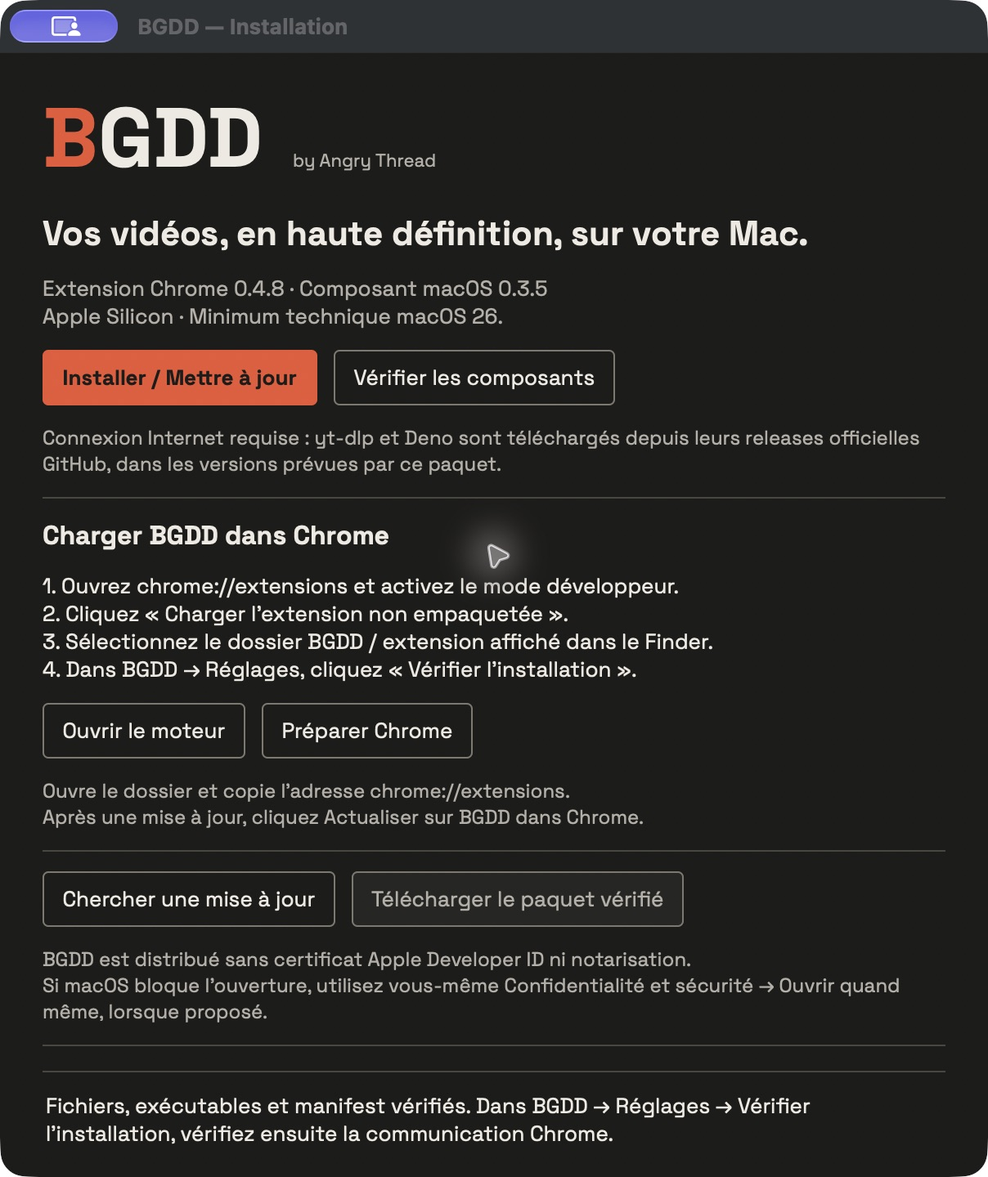
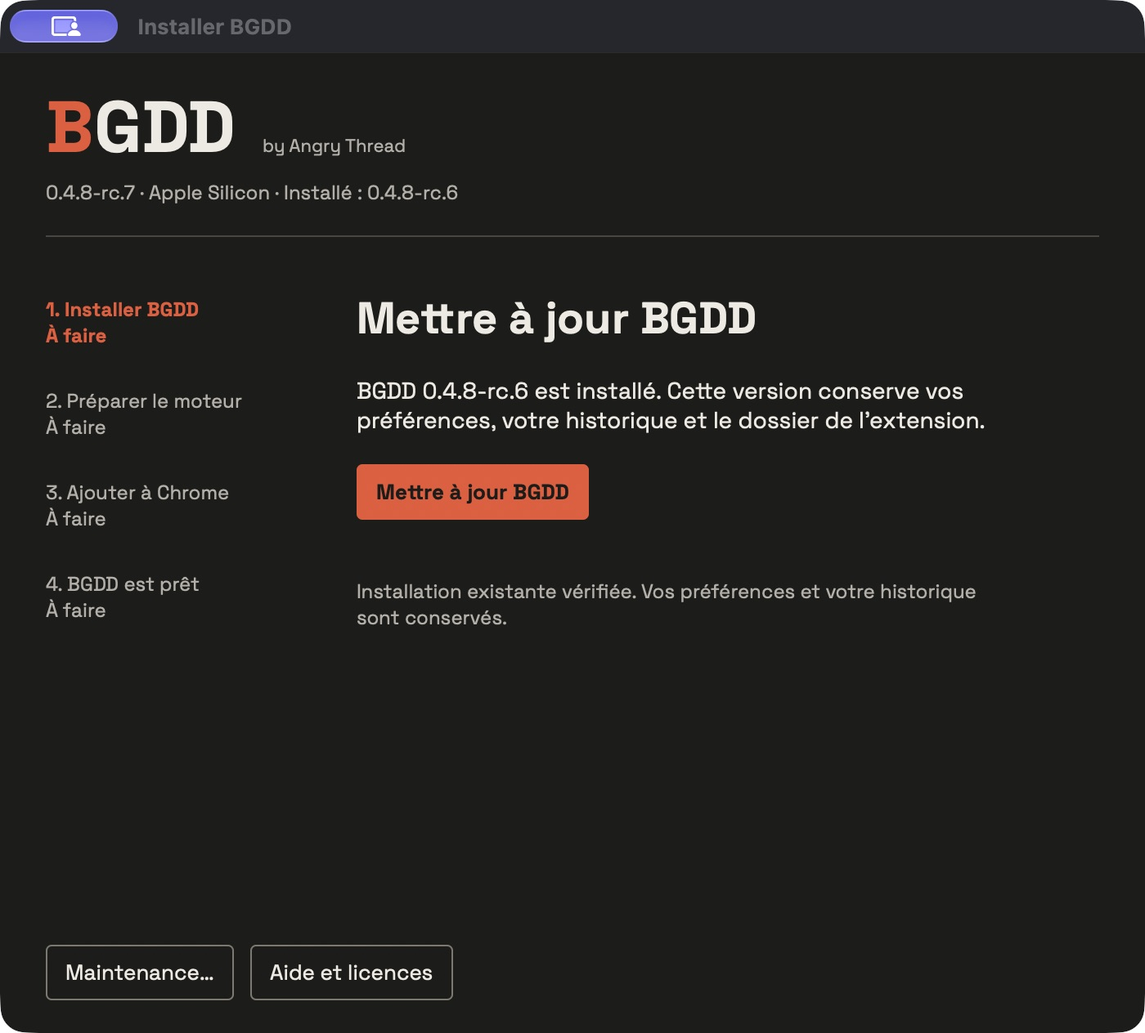
Publish common rc7 ARM and Intel installation guidance

diff --git a/docs/DISTRIBUTION-INSTALL.md b/docs/DISTRIBUTION-INSTALL.md
@@ -1,53 +1,30 @@
-# Installer et entretenir BGDD
+# Installer et entretenir BGDD 0.4.8-rc.7
 
-BGDD gratuit et propriétaire · Angry Thread · extension **0.4.8** · composant natif **0.3.5** · protocole **2**.
+Angry Thread · logiciel gratuit et propriétaire · extension 0.4.8 · protocole 2.
 
-Choisir le paquet correspondant au processeur :
+Choisissez **BGDD-macOS-arm64.dmg** pour Apple Silicon sous macOS 27 ou **BGDD-macOS-x86_64.dmg** pour Intel sous macOS 26, dans la [même release](https://github.com/enrimerveille/BGDD-downloads/releases/tag/v0.4.8-rc.7). Le minimum technique du paquet est macOS 26 ; ARM sur 26 reste non qualifié. La nouvelle interface RC.7 n’a pas été exécutée sur Intel. [Validation](DISTRIBUTION-VALIDATION.md).
 
-- **Apple Silicon : [0.4.8-rc.6](https://github.com/enrimerveille/BGDD-downloads/releases/tag/v0.4.8-rc.6), macOS 27 uniquement.** macOS 26 ARM reste non qualifié.
-- **Intel x86_64 : [0.4.8-rc.5](https://github.com/enrimerveille/BGDD-downloads/releases/tag/v0.4.8-rc.5), macOS 26**, test physique sous macOS 26.5.2. Installation, moteur, quatre formats réseau, annulation, mise à jour et désinstallation réussis. **Chrome → Native Messaging → téléchargement sur Intel NON TESTÉ** ; cette limite est acceptée pour la préversion.
+## Les quatre étapes
 
-Le paquet Intel exact conserve son numéro rc.5 ; il ne remplace pas la rc.6 ARM. Le paquet est sans Developer ID ni notarisation ; [Gatekeeper](DISTRIBUTION-GATEKEEPER.md) explique le mécanisme manuel officiel lorsqu’il est proposé. [Preuves et limites](DISTRIBUTION-VALIDATION.md).
+Ouvrez le DMG puis son unique application **Installer BGDD.app**. Si macOS bloque son ouverture, suivez personnellement le [guide Gatekeeper](DISTRIBUTION-GATEKEEPER.md). BGDD est distribué sans Developer ID ni notarisation. Aucune protection n’est désactivée.
 
-## Première installation
+1. **Installer BGDD** ou **Mettre à jour BGDD** : l’installation transactionnelle conserve préférences, historique et dossier de l’extension. Internet sert à récupérer yt-dlp 2026.08.19 et Deno 2.9.7 depuis leurs releases officielles, avec empreintes fixes.
+2. **Préparer le moteur** : choisir **Ouvrir BGDD Engine**. La fenêtre vérifie yt-dlp, Deno, FFmpeg et ffprobe sans télécharger de média. Une éventuelle décision macOS reste personnelle. Revenir à l’assistant et choisir **Vérifier le résultat**.
+3. **Ajouter à Chrome** : choisir **Ouvrir les extensions Chrome**. Première installation : activer le mode développeur, choisir **Charger l’extension non empaquetée** et sélectionner le dossier montré. Mise à jour : choisir **BGDD est déjà dans Chrome** si nécessaire, puis **Actualiser** sur la carte BGDD existante. Ne pas supprimer cette carte. Dans BGDD → Réglages, choisir **Vérifier l’installation**, fermer le popup, revenir à l’assistant et choisir **Vérifier la connexion**.
+4. **BGDD est prêt** : les étapes affichent **Terminé** seulement après les contrôles d’installation, du moteur et de la connexion Chrome. Choisir **Terminer**.
 
-1. Télécharger **BGDD-macOS-arm64.dmg** pour Apple Silicon ou **BGDD-macOS-x86_64.dmg** pour Intel d’une release approuvée sur [BGDD-downloads](https://github.com/enrimerveille/BGDD-downloads/releases).
-2. Ouvrir l’image puis **BGDD Installer.app**. Si macOS bloque cette première ouverture, suivre le guide Gatekeeper et confirmer vous-même l’ouverture.
-3. Choisir **Installer / Mettre à jour**. Une connexion Internet est nécessaire pour récupérer yt-dlp **2026.08.19** et Deno **2.9.7** directement depuis leurs releases officielles. Leur version et leur SHA-256 sont fixes. L’installateur affiche la source et les octets réellement reçus ; aucun script distant n’est exécuté.
-4. Choisir **Ouvrir le moteur**. La fenêtre **BGDD — préparer le moteur** vérifie successivement les versions de yt-dlp, Deno, FFmpeg et ffprobe, sans télécharger de média. La séquence s’arrête au premier échec. Si macOS bloque un composant, prendre vous-même la décision d’ouverture officielle décrite dans le guide Gatekeeper, puis rouvrir le moteur pour refaire la vérification.
-5. Choisir **Vérifier les composants** et attendre un résultat complet. Ce contrôle d’intégrité est distinct de l’autorisation de lancement par macOS.
-6. Choisir **Préparer Chrome**. Finder montre le dossier ; l’adresse **chrome://extensions** est copiée.
-7. Dans Chrome, coller cette adresse, activer **Mode développeur**, choisir **Charger l’extension non empaquetée**, puis sélectionner le dossier **extension** montré par l’installateur.
-8. Ouvrir BGDD, puis **Réglages → Vérifier l’installation**. Le diagnostic doit indiquer moteur **0.3.5**, protocole **2** et composants prêts. Un auxiliaire peut aussi demander une décision Gatekeeper personnelle à cette étape.
+L’ID reste **ipjganpibkpndaibhejdcnbdclekogbl** et le dossier **~/Library/Application Support/BGDD/extension**. Aucun Terminal, Homebrew, Python ou Node.js séparé. Le chargement local de Chrome reste manuel et ne fournit pas de mise à jour Chrome Web Store. L’installateur n’édite pas les fichiers internes du profil Chrome.
 
-Aucun Terminal, Homebrew, Python ou Node.js séparé. L’installation utilise le dossier utilisateur stable **~/Library/Application Support/BGDD/extension** et le manifest Native Messaging officiel de Chrome. Vous n’avez pas à saisir ces chemins. L’installateur refuse une ancienne installation dont il ne peut pas établir la propriété.
+## Télécharger et mettre à jour
 
-L’ID attendu est **ipjganpibkpndaibhejdcnbdclekogbl**. Le chargement local est une méthode normalement destinée au développement : il reste manuel, sans installation silencieuse, sans modification des fichiers internes de Chrome ni mises à jour automatiques Chrome Web Store.
+Ouvrez une publication compatible, choisissez format et destination, puis **Télécharger**. Un transfert actif à la fois ; la réussite attend ffprobe et la publication sans écrasement. **Annuler** arrête tout le groupe de processus. Aucun média ne transite par Chrome. L’accès facultatif à une session exige un consentement explicite.
 
-## Télécharger
+Dans **Maintenance…**, la recherche de mise à jour est volontaire. L’updater choisit le DMG de l’architecture du Mac dans la release commune et contrôle HTTPS, version, taille, SHA-256 et contenu. Il n’existe ni daemon, ni recherche périodique, ni installation silencieuse. Les empreintes proviennent du même compte GitHub que les fichiers ; elles ne remplacent pas une identité Apple.
 
-Ouvrir une publication accessible, choisir son format et sa destination, puis **Télécharger**. Le moteur reçoit les médias directement sur le Mac ; les données vidéo ne transitent pas par Chrome. L’accès facultatif à une session de site exige un consentement explicite dans les réglages.
+Une mise à jour conserve la carte Chrome, ses autorisations, réglages et historique. Actualisez cette carte et rechargez ensuite les publications déjà ouvertes. Les téléchargements restent en place.
 
-**Annuler** arrête le groupe de processus de la tâche. Fermer le popup laisse le transfert continuer ; fermer Chrome l’interrompt sans reprise automatique. La réussite attend ffprobe et la publication sans écrasement. Les garanties et limites APFS/exFAT restent celles du produit 0.4.8.
+## Retirer ou réparer
 
-## Mettre à jour
+**Maintenance…** regroupe vérification, réparation et désinstallation. Une erreur de transaction conserve ou restaure l’installation précédente. Ne supprimez pas de dossier personnel pour réparer BGDD.
 
-1. Attendre la fin des transferts et ouvrir l’installateur.
-2. Choisir **Chercher une mise à jour**. La recherche volontaire utilise **BGDD-downloads**, vérifie version, HTTPS, taille, empreintes et contenu attendu. L’absence de Developer ID limite l’authenticité : l’empreinte est fournie par le même compte GitHub que le fichier.
-3. Choisir d’ouvrir le paquet vérifié, confirmer son ouverture si macOS le demande, puis choisir **Installer / Mettre à jour** dans le nouvel installateur.
-4. Choisir **Ouvrir le moteur**, terminer la vérification des quatre outils et décider personnellement des éventuelles ouvertures demandées par macOS, puis vérifier les composants.
-5. Dans Chrome, choisir **Actualiser** sur la carte BGDD existante, puis recharger les publications déjà ouvertes.
-
-Le chemin, l’identité, les préférences, autorisations, historique et médias sont conservés. La réparation peut exiger Internet pour les versions fixes des moteurs. Aucun script distant, installation silencieuse, recherche périodique ni connexion permanente à GitHub. Le canal public sélectionne les préversions compatibles avec l’architecture depuis la liste des releases, avec vérification des empreintes.
-
-## Désinstaller
-
-1. Supprimer BGDD dans **chrome://extensions**.
-2. Ouvrir l’installateur conservé, laisser décoché **Supprimer aussi préférences et historique** pour garder les données natives, puis choisir **Désinstaller**.
-3. Cocher cette option uniquement si vous souhaitez effacer les données natives BGDD.
-
-Host, gardien, sélecteur, extension, manifest et moteurs propres à BGDD sont retirés. Les médias téléchargés et outils d’autres applications restent en place. Chrome retire ses propres données lorsque son extension est supprimée ; l’option de l’installateur concerne les données natives.
-
-## Si une opération échoue
-
-L’installateur conserve ou restaure la version précédente lorsque sa transaction échoue. Rouvrir l’installateur et vérifier les composants. Si la préparation du moteur s’arrête, conserver le nom de l’outil et le message affiché, puis suivre [Gatekeeper](DISTRIBUTION-GATEKEEPER.md) lorsqu’une autorisation officielle est proposée. Ne supprimer aucun dossier personnel pour réparer BGDD. Dossier inaccessible, volume absent et disque plein ont des messages distincts. Ne pas modifier PATH, les réglages du shell ou les politiques de sécurité.
+Pour désinstaller, retirez BGDD dans Chrome puis utilisez **Maintenance… → Désinstaller**. L’effacement des préférences natives est un choix explicite ; Chrome supprime ses propres données quand sa carte est retirée. Les médias téléchargés sont toujours conservés.

diff --git a/README.md b/README.md
@@ -4,9 +4,14 @@
 
 BGDD est un logiciel **gratuit et propriétaire** qui associe une extension Chrome à un moteur local macOS. Choisissez une publication, un format et un dossier : le téléchargement et le traitement se font sur votre Mac. Aucun compte BGDD, abonnement, serveur de téléchargement ou télémétrie.
 
-**Préversion 0.4.8-rc.6 — Apple Silicon, macOS 27 uniquement.** [Télécharger le DMG ARM](https://github.com/enrimerveille/BGDD-downloads/releases/download/v0.4.8-rc.6/BGDD-macOS-arm64.dmg) · [Release, empreintes et kit tiers](https://github.com/enrimerveille/BGDD-downloads/releases/tag/v0.4.8-rc.6). macOS 26 ARM reste non qualifié pour cette version. [Preuves et limites](docs/DISTRIBUTION-VALIDATION.md).
+**Préversion commune 0.4.8-rc.7 — Apple Silicon et Intel.** [Release, empreintes et sources tierces](https://github.com/enrimerveille/BGDD-downloads/releases/tag/v0.4.8-rc.7).
 
-**Préversion 0.4.8-rc.5 — Intel x86_64, macOS 26.** [Télécharger le DMG Intel](https://github.com/enrimerveille/BGDD-downloads/releases/download/v0.4.8-rc.5/BGDD-macOS-x86_64.dmg) · [Release, empreintes et kit tiers](https://github.com/enrimerveille/BGDD-downloads/releases/tag/v0.4.8-rc.5). Test physique sous macOS 26.5.2 : installation, moteur et quatre formats réseau réussis. **Parcours Chrome → Native Messaging → téléchargement Intel NON TESTÉ**, limite acceptée pour cette préversion. Les deux variantes ont des numéros distincts ; choisissez selon votre processeur.
+| Votre Mac | Paquet | Validation |
+|---|---|---|
+| Apple Silicon, macOS 27 | [DMG ARM64](https://github.com/enrimerveille/BGDD-downloads/releases/download/v0.4.8-rc.7/BGDD-macOS-arm64.dmg) | Recette ARM ; macOS 26 ARM non qualifié |
+| Intel x86_64, macOS 26 | [DMG Intel](https://github.com/enrimerveille/BGDD-downloads/releases/download/v0.4.8-rc.7/BGDD-macOS-x86_64.dmg) | Contrôles statiques RC.7 ; essais physiques antérieurs sous 26.5.2 réutilisés |
+
+**La nouvelle interface RC.7 n’a pas été exécutée sur Intel.** Le fonctionnement Chrome antérieur est confirmé par le propriétaire ; aucune nouvelle session Intel n’est revendiquée. [Preuves et limites](docs/DISTRIBUTION-VALIDATION.md).
 
 <p align="center"><img src="assets/popup-light.png" width="320" alt="BGDD clair"><img src="assets/popup-dark.png" width="320" alt="BGDD sombre"></p>
 
@@ -31,12 +36,11 @@ Captures de la vraie fenêtre AppKit ; interface identique sur ARM et Intel, don
 
 ## Installer
 
-1. Télécharger le DMG d’une release approuvée et ouvrir **BGDD Installer.app**.
-2. Si macOS bloque l’ouverture, suivre **Réglages Système → Confidentialité et sécurité → Ouvrir quand même**, lorsque cette option est proposée, puis confirmer vous-même. BGDD est distribué **sans certificat Developer ID ni notarisation Apple**. [Guide Gatekeeper](docs/DISTRIBUTION-GATEKEEPER.md).
-3. Choisir **Installer / Mettre à jour**. Une connexion Internet est nécessaire : yt-dlp et Deno sont récupérés directement depuis leurs releases officielles, à versions fixes et après vérification d’intégrité.
-4. Choisir **Ouvrir le moteur**. La fenêtre **BGDD — préparer le moteur** vérifie les versions de yt-dlp, Deno, FFmpeg et ffprobe, sans téléchargement de média. Au premier échec, consulter le nom de l’outil et son message ; décider personnellement de l’ouverture si macOS la propose, puis rouvrir le moteur. Choisir ensuite **Vérifier les composants**.
-5. Choisir **Préparer Chrome**, ouvrir l’adresse copiée, activer **Mode développeur**, puis **Charger l’extension non empaquetée** et sélectionner le dossier indiqué.
-6. Dans BGDD, ouvrir **Réglages → Vérifier l’installation**.
+1. Ouvrir le DMG adapté à votre Mac, puis son unique application **Installer BGDD.app**.
+2. Si macOS bloque l’ouverture, décider personnellement de l’autorisation dans **Réglages Système → Confidentialité et sécurité → Ouvrir quand même**, lorsque proposée. BGDD reste **sans Developer ID ni notarisation Apple**. [Guide Gatekeeper](docs/DISTRIBUTION-GATEKEEPER.md).
+3. Suivre les quatre étapes : **Installer BGDD / Mettre à jour BGDD**, **Préparer le moteur**, **Ajouter à Chrome**, puis **BGDD est prêt**. L’aide et les licences sont intégrées.
+4. Pour une première installation Chrome, activer **Mode développeur** et **Charger l’extension non empaquetée** depuis le dossier montré. Pour une mise à jour, cliquer **Actualiser** sur la carte BGDD existante, sans la supprimer.
+5. Dans BGDD, ouvrir **Réglages → Vérifier l’installation**, fermer le popup, revenir à l’assistant et choisir **Vérifier la connexion**, puis **Terminer**.
 
 Aucun Terminal, Homebrew, Python ou Node.js à installer. Le chargement Chrome est manuel et normalement destiné au développement ; il ne fournit pas les mises à jour du Chrome Web Store. [Guide détaillé](docs/DISTRIBUTION-INSTALL.md).
 
@@ -44,9 +48,9 @@ La candidate regroupe les exécutables dans BGDD Engine.app et distingue les err
 
 ## Mettre à jour ou retirer BGDD
 
-La recherche de mise à jour est volontaire, depuis l’installateur et ce dépôt de distribution. Vous choisissez le nouveau paquet après vérification de son intégrité, autorisez son ouverture si macOS le demande, puis **Installer / Mettre à jour** et **Ouvrir le moteur**. Dans Chrome, cliquez **Actualiser** sur BGDD et rechargez les publications déjà ouvertes. Le dossier, l’identité, les préférences et l’historique sont conservés.
+La recherche de mise à jour est volontaire, depuis l’installateur et ce dépôt de distribution. Vous choisissez le nouveau paquet après vérification de son intégrité, autorisez son ouverture si macOS le demande, puis **Mettre à jour BGDD** et **Ouvrir BGDD Engine**. Dans Chrome, cliquez **Actualiser** sur BGDD et rechargez les publications déjà ouvertes. Le dossier, l’identité, les préférences et l’historique sont conservés.
 
-Pour retirer BGDD, supprimez l’extension dans Chrome, puis choisissez **Désinstaller** dans l’installateur. L’effacement des préférences natives est un choix explicite. **Les fichiers téléchargés sont conservés.**
+Pour retirer BGDD, supprimez l’extension dans Chrome, puis choisissez **Maintenance… → Désinstaller** dans l’installateur. L’effacement des préférences natives est un choix explicite. **Les fichiers téléchargés sont conservés.**
 
 ## Limites et droits
 

diff --git a/docs/DISTRIBUTION-RELEASE.md b/docs/DISTRIBUTION-RELEASE.md
@@ -1,17 +1,30 @@
-# BGDD 0.4.8-rc.6
+# BGDD 0.4.8-rc.7 — Apple Silicon et Intel
 
-Angry Thread · préversion gratuite et propriétaire · Apple Silicon · macOS 27 uniquement.
+Une seule release, deux DMG : **Apple Silicon / ARM64 sous macOS 27**, **Intel / x86_64 sous macOS 26**.
 
-L’installateur suit désormais l’apparence claire ou sombre de macOS, y compris les changements pendant son ouverture. Il reprend la palette BGDD et Space Grotesk, avec des boutons natifs, des messages longs défilants et des confirmations système conservées. Le composant installateur passe à 0.4.9.
+- Un seul installateur visible dans le DMG ; assistant en quatre étapes, aide et licences intégrées, apparence claire/sombre automatique.
+- Chrome affiche **« Téléchargement en cours »** ; le libellé accessible devient **« Progression du téléchargement »**. Préparation, conversion, extraction audio et assemblage gardent leurs messages. Aucune logique de téléchargement modifiée.
+- Mise à jour transactionnelle et actualisation de la carte Chrome existante, avec conservation de son ID, des autorisations, des réglages, de l’historique et des médias.
 
-L’extension 0.4.8, le host, le gardien et le moteur 0.3.5, le sélecteur 0.3.4, les codecs et Native Messaging 2 conservent exactement les octets de la rc.4 qualifiée. Les formats et le fonctionnement des téléchargements ne changent pas. Les corrections de copie et de lancement du moteur introduites en rc.4 sont conservées.
+## Télécharger
 
-Le minimum technique inscrit dans le paquet est macOS 26. La compatibilité proposée pour cette préversion reste limitée à **macOS 27 sur Apple Silicon**. macOS 26 ARM n’est pas qualifié ; Intel dispose d’une candidate privée et d’une validation distincte. Les essais de compilation croisée ne constituent pas une exécution native Intel.
+| Mac | Fichier | SHA-256 |
+|---|---|---|
[2 lines of base64/hex data omitted]
 
-BGDD reste distribué sans certificat Apple Developer ID ni notarisation. L’utilisateur décide personnellement des ouvertures proposées par macOS. yt-dlp et Deno sont acquis depuis leurs releases officielles, avec versions, empreintes et inventaires fixés. Le DMG contient uniquement les codecs reconstruits et les autres composants prévus. Les garanties d’intégrité et de quarantaine sont inchangées.
+Ouvrir **Installer BGDD.app** et suivre ses quatre étapes. Pour mettre à jour Chrome, **Actualiser** la carte BGDD existante, sans la supprimer. Le [guide d’installation](https://github.com/enrimerveille/BGDD-downloads/blob/main/docs/DISTRIBUTION-INSTALL.md) détaille chaque étape.
 
-Le dossier, l’identité de l’extension, les réglages et l’historique sont conservés par la mise à jour transactionnelle. Aucun daemon, serveur local, surveillance ou mise à jour silencieuse n’est ajouté. Les fichiers téléchargés restent conservés, y compris après désinstallation.
+## Validation et limites
 
-Les documents du paquet décrivent sa préparation. Les validations finales et limites sont consignées dans la release publiée et la documentation en ligne. Les assets ARM rc.4 publiés restent inchangés.
+ARM : paquet exact contrôlé, installation/maintenance du payload en environnement isolé, réception Safari avec quarantaine normale et ouverture du vrai installateur après autorisation Gatekeeper humaine sous macOS 27.2. La recette graphique RC.7 déjà acquise est réutilisée ; l’alignement personnel et le contrôle final Chrome suivent la publication. Les moteurs et formats inchangés conservent leurs preuves antérieures ; les quatre téléchargements réseau ne sont pas répétés.
 
-[Installation](DISTRIBUTION-INSTALL.md) · [Gatekeeper](DISTRIBUTION-GATEKEEPER.md) · [Validation et limites](DISTRIBUTION-VALIDATION.md) · [Licences et sources](DISTRIBUTION-LICENSES.md).
+Intel : sept Mach-O x86_64, inventaires, signatures techniques, licences, sources correspondantes et empreintes du nouveau paquet vérifiés. Les essais physiques antérieurs sous macOS 26.5.2 couvrent installation, Gatekeeper, moteur, quatre formats réseau, annulation, mise à jour et désinstallation. Le propriétaire confirme également le fonctionnement antérieur de Chrome le 27 octobre 2026 ; cette confirmation complète le rapport historique qui laissait ce parcours non testé. **La nouvelle interface RC.7 n’a pas été exécutée sur Intel.** Publication sans nouvelle session physique explicitement autorisée. Compilation croisée et simulation de sélection d’asset ne constituent pas une exécution native Intel. ARM sur macOS 26 reste non qualifié.
+
+BGDD reste sans Developer ID ni notarisation Apple ; toute autorisation macOS est personnelle. La validation exhaustive VoiceOver, les erreurs/focus de la nouvelle interface sur Intel et une assertion EJS indépendante sur le Mac Intel restent limitées. [Preuves détaillées](https://github.com/enrimerveille/BGDD-downloads/blob/main/docs/DISTRIBUTION-VALIDATION.md).
+
+`SHA256SUMS` couvre les deux DMG, les deux kits `BGDD-third-party-sources-arm64.zip` / `BGDD-third-party-sources-x86_64.zip`, `VERSIONS-arm64.json`, `VERSIONS-x86_64.json`, le manifeste commun `VERSIONS.json` et `RELEASE-ASSETS.json`. Les kits contiennent uniquement les sources tierces correspondantes. Le dépôt source BGDD reste privé. Les releases antérieures sont conservées.
+
+**GitHub Actions supplémentaire : 0 € ; aucun workflow lancé.**
+
+English: choose ARM64 for Apple Silicon on macOS 27, or x86_64 for Intel on macOS 26. The new four-step RC.7 interface has not been executed on Intel; previous physical 26.5.2 evidence and the owner’s Chrome confirmation are reused with explicit publication approval. Open Installer BGDD.app, follow the assistant, and reload the existing Chrome extension without removing it. [English guide](https://github.com/enrimerveille/BGDD-downloads/blob/main/README.en.md).

diff --git a/README.en.md b/README.en.md
@@ -4,9 +4,14 @@
 
 BGDD is **free proprietary software** pairing a Chrome extension with a local macOS engine. Choose a publication, format and folder: downloading and processing stay on your Mac. No BGDD account, subscription, download server or telemetry.
 
-**Prerelease 0.4.8-rc.6 — Apple Silicon, macOS 27 only.** [Download the ARM DMG](https://github.com/enrimerveille/BGDD-downloads/releases/download/v0.4.8-rc.6/BGDD-macOS-arm64.dmg) · [Release, checksums and third-party source kit](https://github.com/enrimerveille/BGDD-downloads/releases/tag/v0.4.8-rc.6). macOS 26 ARM is not yet qualified for this version. [Evidence and limitations](docs/DISTRIBUTION-VALIDATION.md).
+**Common prerelease 0.4.8-rc.7 — Apple Silicon and Intel.** [Release, checksums and third-party sources](https://github.com/enrimerveille/BGDD-downloads/releases/tag/v0.4.8-rc.7).
 
-**Prerelease 0.4.8-rc.5 — Intel x86_64, macOS 26.** [Download the Intel DMG](https://github.com/enrimerveille/BGDD-downloads/releases/download/v0.4.8-rc.5/BGDD-macOS-x86_64.dmg) · [Release, checksums and third-party source kit](https://github.com/enrimerveille/BGDD-downloads/releases/tag/v0.4.8-rc.5). Physical macOS 26.5.2 tests passed for installation, engine and all four network formats. **Chrome → Native Messaging → download on Intel remains UNTESTED**, an accepted limitation of this prerelease. The variants use distinct version numbers; choose by processor.
+| Your Mac | Package | Validation |
+|---|---|---|
+| Apple Silicon, macOS 27 | [ARM64 DMG](https://github.com/enrimerveille/BGDD-downloads/releases/download/v0.4.8-rc.7/BGDD-macOS-arm64.dmg) | ARM recipe; macOS 26 ARM is not qualified |
+| Intel x86_64, macOS 26 | [Intel DMG](https://github.com/enrimerveille/BGDD-downloads/releases/download/v0.4.8-rc.7/BGDD-macOS-x86_64.dmg) | RC.7 static checks; previous physical 26.5.2 evidence reused |
+
+**The new RC.7 interface has not been run on Intel.** The owner confirms previous Chrome operation; no new Intel session is claimed. [Evidence and limitations](docs/DISTRIBUTION-VALIDATION.md).
 
 <p align="center"><img src="assets/popup-light.png" width="320" alt="BGDD light"><img src="assets/popup-dark.png" width="320" alt="BGDD dark"></p>
 
@@ -31,12 +36,11 @@ Actual AppKit window captures. ARM and Intel share the interface; Intel qualific
 
 ## Install
 
-1. Download an approved release DMG and open **BGDD Installer.app**.
-2. If macOS blocks it, use **System Settings → Privacy & Security → Open Anyway**, when offered, and confirm yourself. BGDD has **no Developer ID certificate or Apple notarization**. [Gatekeeper guide](docs/DISTRIBUTION-GATEKEEPER.md).
-3. Choose **Installer / Mettre à jour**. Internet is required: yt-dlp and Deno are downloaded directly from their official releases at fixed versions, with integrity checks.
-4. Choose **Ouvrir le moteur**. The **BGDD — préparer le moteur** window checks the versions of yt-dlp, Deno, FFmpeg and ffprobe without downloading media. It stops at the first failure; read the tool name and message, personally decide any opening offered by macOS, then reopen the engine. Choose **Vérifier les composants** afterwards.
-5. Choose **Préparer Chrome**, open the copied address, enable **Developer mode**, select **Load unpacked**, and choose the shown folder.
-6. Open BGDD and choose **Réglages → Vérifier l’installation**.
+1. Open the DMG for your Mac and its single visible app, **Installer BGDD.app**.
+2. If macOS blocks opening, personally decide whether to use **System Settings → Privacy & Security → Open Anyway**, when offered. BGDD has **no Developer ID certificate or Apple notarization**. [Gatekeeper guide](docs/DISTRIBUTION-GATEKEEPER.md).
+3. Follow the four steps: install/update, prepare the engine, add to Chrome, then ready. Help and licenses are included in the assistant.
+4. For first-time Chrome setup, enable **Developer mode** and choose **Load unpacked** using the displayed folder. For an update, **Reload** the existing BGDD card without removing it.
+5. In BGDD, choose **Réglages → Vérifier l’installation**, close the popup, return to the assistant and choose **Vérifier la connexion**, then **Terminer**.
 
 No Terminal, Homebrew, separate Python or Node.js installation. Chrome loading is manual, normally intended for development, and does not provide Chrome Web Store updates. The interface uses French labels. [Detailed guide](docs/DISTRIBUTION-INSTALL.md).
 
@@ -44,9 +48,9 @@ The candidate groups executables inside BGDD Engine.app and distinguishes guardi
 
 ## Update or uninstall
 
-Update checks are voluntary and use this distribution repository. Choose the package after integrity verification, authorize its opening if macOS requests it, then choose **Installer / Mettre à jour** and **Ouvrir le moteur**. Reload BGDD in Chrome and reload already-open platform pages. Folder, identity, preferences and history stay in place.
+Update checks are voluntary and use this distribution repository. Choose the package after integrity verification, authorize its opening if macOS requests it, then choose **Mettre à jour BGDD** and **Ouvrir BGDD Engine**. Reload BGDD in Chrome and reload already-open platform pages. Folder, identity, preferences and history stay in place.
 
-Remove the extension in Chrome, then choose **Désinstaller** in the installer. Removing native preferences is a separate explicit choice. **Downloaded files are retained.**
+Remove the extension in Chrome, then choose **Maintenance… → Désinstaller** in the installer. Removing native preferences is a separate explicit choice. **Downloaded files are retained.**
 
 ## Limitations and rights
 

diff --git a/docs/DISTRIBUTION-VALIDATION.md b/docs/DISTRIBUTION-VALIDATION.md
@@ -1,5 +1,20 @@
 # Validation des variantes BGDD
 
+## RC.7 commune — 27 octobre 2026
+
+Les deux paquets sont reconstruits depuis la candidate locale RC.7. Les seuls changements d’octets par rapport à cette candidate sont le popup compilé, son inventaire et les sceaux de l’installateur. Les instructions machine de l’installateur et tous les autres composants natifs sont identiques à la candidate UX. Les contrôles de packaging, sept Mach-O par architecture, licences et 15 fichiers de chaque kit tiers ont réussi.
+
+**Tests simulés :** nouveau libellé et accessibilité contrôlés dans le popup rendu, avec maintien des libellés de préparation, conversion, extraction audio et assemblage. Le même contrôle porte sur le JavaScript réellement embarqué dans chaque DMG. Sélection du bon asset dans une release commune et refus de l’autre architecture contrôlés ; le cas Intel simulé sur ARM n’est pas une exécution Intel.
+
+**ARM natif / payload isolé :** installation, mise à jour, remplacement indépendant des codecs et conservation des données de recette vérifiés sur le payload exact. Le harnais utilise un HOME marqué ; ce test est distinct de l’interface de production.
+
+**ARM graphique :** la recette RC.7 antérieure couvre quatre étapes, moteur, Chrome isolé, clair/sombre, défilement et clavier. Le DMG final a été reçu par Safari sous macOS 27.2 avec quarantaine normale ; SHA-256, sceau et octets de l’app transloquée vérifiés, ouverture autorisée personnellement via Gatekeeper. L’installation personnelle et le contrôle final Chrome suivent la publication. Aucun nouveau téléchargement média ; preuves de formats inchangés réutilisées.
+
+**Intel :** contrôles statiques seulement pour RC.7. Le propriétaire autorise explicitement la publication sans nouvelle session physique. Les essais du 22 octobre sous macOS 26.5.2 restent valables dans leur périmètre ; le propriétaire confirme le 27 octobre le fonctionnement antérieur de Chrome. Cette confirmation est déclarative et complète le rapport technique historique ci-dessous sans le transformer en nouvelle observation automatisée. **La nouvelle interface RC.7 n’a pas été exécutée sur Intel.** Aucune preuve Rosetta ou de compilation croisée n’est présentée comme native Intel.
+
+Limites : ARM macOS 26 non qualifié ; interface RC.7 Intel, assertion EJS indépendante Intel et restitution VoiceOver exhaustive non qualifiées. Aucun job Actions lancé. Les anciennes sections sont conservées comme historique daté.
+
+
 ## Intel 0.4.8-rc.5 — publication du 27 octobre 2026
 
 Préversion Intel x86_64 pour macOS 26. Le test physique du 22 octobre a été réalisé sur Mac Pro Intel 2019 sous **macOS 26.5.2**. Installation graphique, autorisation Gatekeeper humaine, moteur et ses quatre outils, adaptation clair/sombre en direct, quatre téléchargements réseau autorisés (qualité maximale, MP4, WAV, MP3), annulation, mise à jour de la même candidate et désinstallation : **PASS**. Tous les exécutables disposent de x86_64 ; yt-dlp téléchargé lors de l’installation est universel.

diff --git a/docs/DISTRIBUTION-LICENSES.md b/docs/DISTRIBUTION-LICENSES.md
@@ -1,6 +1,6 @@
-# Licences et sources de BGDD 0.4.8-rc.4
+# Licences et sources de BGDD 0.4.8-rc.7
 
-21 octobre 2026 · code original gratuit et propriétaire, **Angry Thread**. Le JavaScript compilé nécessaire à l'extension est distribué ; cela n'ouvre pas les sources originales. Les restrictions BGDD excluent expressément les droits accordés par les licences tierces. [Conditions](../CONDITIONS.md).
+27 octobre 2026 · code original gratuit et propriétaire, **Angry Thread**. Le JavaScript compilé nécessaire à l'extension est distribué ; cela n'ouvre pas les sources originales. Les restrictions BGDD excluent expressément les droits accordés par les licences tierces. [Conditions](../CONDITIONS.md).
 
 ## Matériaux fournis
 
@@ -11,7 +11,7 @@
 | LAME statique | 3.100 | LGPL-2.0-or-later ; sources permettant la modification et la réédition des liens |
 | Space Grotesk | 2.000 | OFL-1.1 ; fonte originale et notice |
 
-Les sources et versions des codecs ARM n'ont pas changé. `VERSIONS.json.media` de la release identifie le build effectivement utilisé ; les inventaires du payload identifient les exécutables après signature. Les premiers relevés de construction conservés dans le kit sont historiques, et ne remplacent pas ces empreintes. Le kit `BGDD-third-party-sources.zip` contient les sources tierces correspondantes, sans code propriétaire BGDD.
+Les sources et versions des codecs ARM n'ont pas changé. `VERSIONS-arm64.json.media` ou `VERSIONS-x86_64.json.media` de la release identifie le build effectivement utilisé ; les inventaires du payload identifient les exécutables après signature. Les premiers relevés de construction conservés dans le kit sont historiques, et ne remplacent pas ces empreintes. Les kits `BGDD-third-party-sources-arm64.zip` et `BGDD-third-party-sources-x86_64.zip` contiennent les sources tierces correspondantes, sans code propriétaire BGDD.
 
 ## Frontière des programmes et remplacement
 

diff --git a/sources/README.md b/sources/README.md
@@ -1,3 +1,5 @@
+> RC.7 : choisissez le kit `BGDD-third-party-sources-arm64.zip` ou `BGDD-third-party-sources-x86_64.zip` correspondant à votre DMG. Les métadonnées de build actuelles se trouvent dans `VERSIONS-arm64.json.media` ou `VERSIONS-x86_64.json.media` ; le manifeste commun `VERSIONS.json` pointe vers ces fichiers. Les références ci-dessous aux anciens kits sont historiques.
+
 # Sources correspondantes des codecs BGDD rc2
 
 Ce kit concerne uniquement **FFmpeg / ffprobe 9.0.2, x264 et LAME 3.100**, ainsi que leurs recettes indépendantes de construction et d’installation. Il ne contient aucun code Swift, TypeScript, host, gardien, sélecteur ou installateur propriétaire BGDD. Le nom BGDD identifie le build consommateur et ne change pas les droits des sources tierces.
